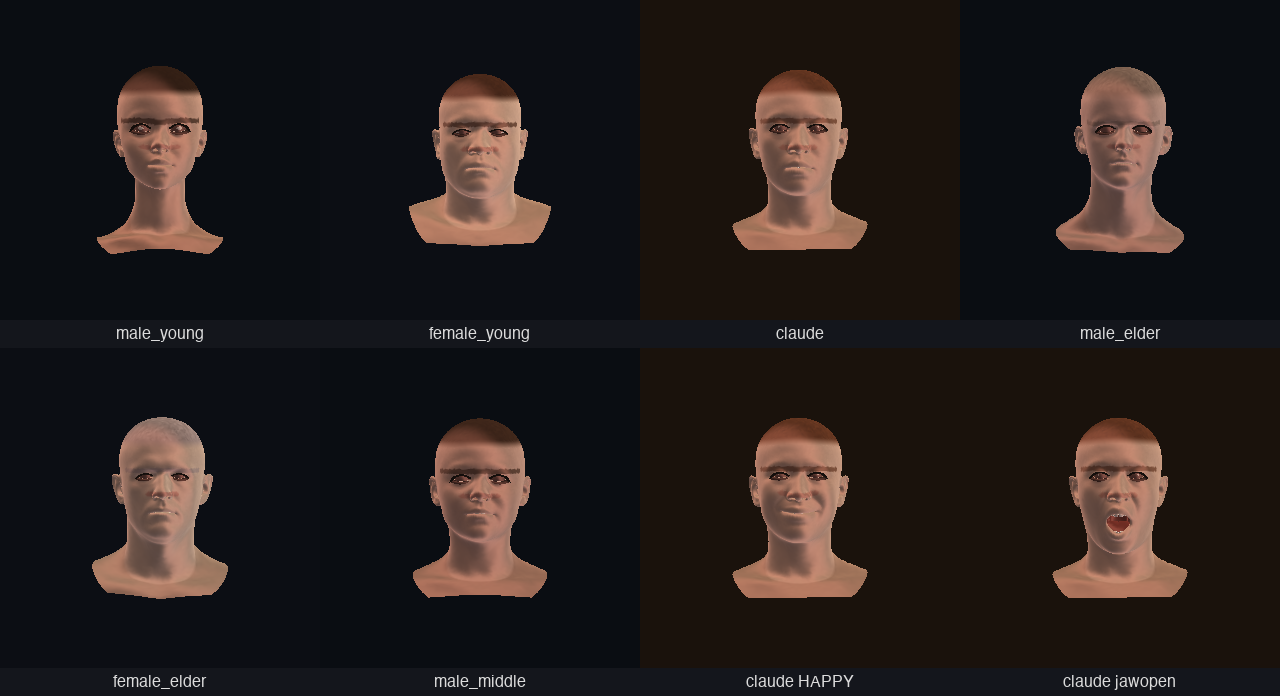
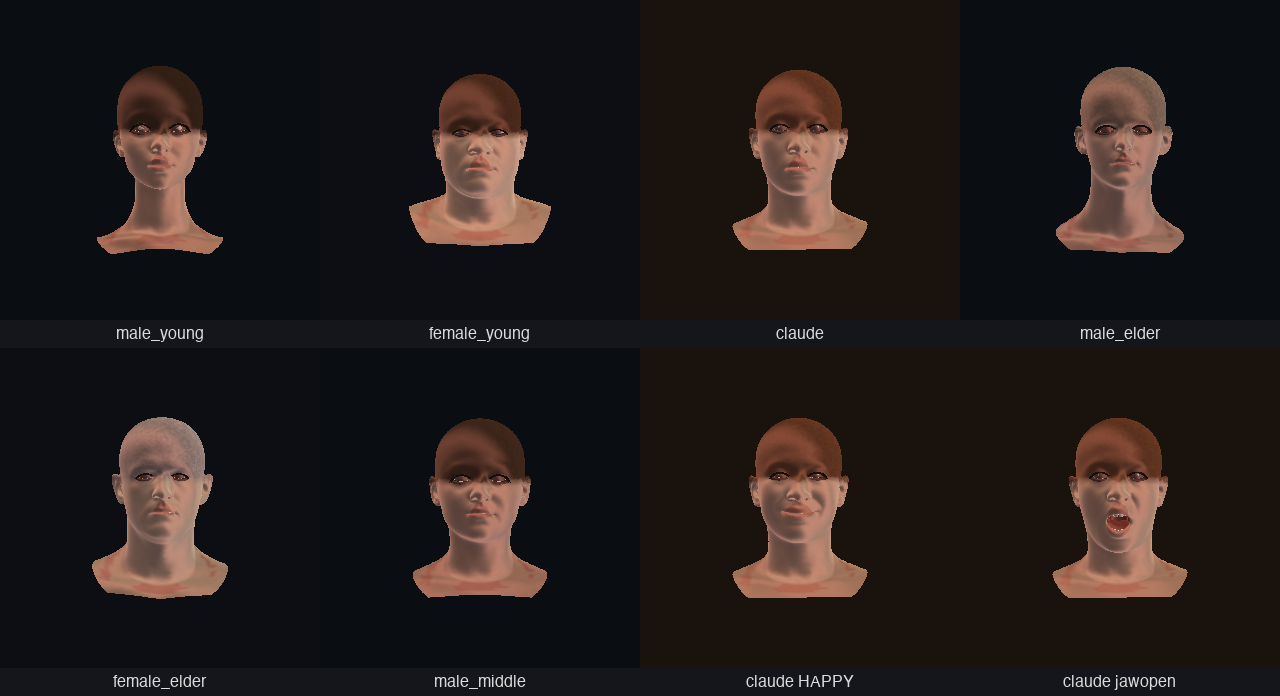
Anatomical region detection via blendshape deltas (winner-take-all)
User flagged that lip / brow / cheek colours were landing in wrong
places. Replaced the Y/X/Z heuristic masks with a clean approach:
**use the blendshape deltas as anatomical region labels**.

INSIGHT
  Each ARKit blendshape is named after the action it drives —
  mouthRollLower, browInnerUp_L, cheekPuff_R. The vertices each
  blendshape MOVES are by definition members of that anatomical
  region. We aggregate per-region max(delta-magnitude), then pick
  each vertex's dominant region (winner-take-all). Vertices below
  threshold stay plain skin.

WHITELIST  vision/ict_face.py _vertex_regions()
  We pick blendshapes whose primary deformation is the named
  region. Broader prefixes catch corner-pull / dimple shapes that
  drag the whole lower face, so we restrict:

    lips    -> mouthRoll/Shrug/Funnel/Pucker/Close
              (vermillion-specific; not Smile/Frown/Dimple)
    brow    -> browDown/InnerUp/OuterUp L+R
    eyelid  -> eyeBlink/Squint/Wide L+R
    cheek   -> cheekPuff/cheekRaiser  (not cheekSquint — eyelid)
    nose    -> noseSneer L+R
    jaw     -> jawOpen

REGION SIZES (out of 26 719 verts)
    lips      1 269   (vermillion border)
    brow      2 497   (brow ridge / hair area)
    eyelid    2 772   (eyelid skin)
    cheek     2 804   (cheek apples)
    nose      1 383
    jaw       8 093
    skin      7 901   (rest of face material)

COLOUR APPLICATION
  Hair (Y heuristic — no hair blendshapes) → top 32% of head.
[…]

diff --git a/src/faceview/vision/ict_face.py b/src/faceview/vision/ict_face.py
@@ -474,14 +474,97 @@ def _render_via_moderngl(
     )
 
 
+@lru_cache(maxsize=1)
+def _vertex_regions() -> dict[str, np.ndarray]:
+    """Derive anatomical region masks from blendshape delta magnitudes.
+
+    Each ARKit blendshape is named after the facial action it
+    drives (``mouthSmile_L``, ``browInnerUp_R``, ``cheekPuff_L``).
+    The vertices it moves are anatomically members of that region.
+
+    But blendshape deformations ripple across the face, so a naive
+    "non-zero" mask gives ~half the mesh. We aggregate by region
+    (sum of delta magnitudes across all blendshapes in that region)
+    then classify each vertex by its dominant region — the one that
+    moves it the most. That gives clean anatomical region masks
+    that match what the artist actually rigged.
+    """
+    m = load_ict_model()
+    n_verts = len(m.vertices)
+
+    # Per-region blendshape WHITELIST. We pick blendshapes whose
+    # primary deformation is the named region — broader prefixes
+    # (e.g. "mouth*") catch corner-pull / dimple shapes that drag
+    # the whole lower face, smearing the lip colour onto the chin.
+    region_blendshapes = {
+        # Vermillion border (the actual lip surface): these shapes
+        # roll, shrug, funnel, pucker, close — all on the lip skin.
+        "lips": [
+            "mouthClose",
+            "mouthRollLower", "mouthRollUpper",
+            "mouthShrugLower", "mouthShrugUpper",
+            "mouthFunnel", "mouthPucker",
+        ],
+        # Brow ridge / hair line.
+        "brow": [
+            "browDown_L", "browDown_R",
+            "browInnerUp_L", "browInnerUp_R",
+            "browOuterUp_L", "browOuterUp_R",
+        ],
+        # Eyelid skin.
+        "eyelid": [
+            "eyeBlink_L", "eyeBlink_R",
+            "eyeSquint_L", "eyeSquint_R",
+            "eyeWide_L", "eyeWide_R",
+        ],
+        # Cheek apples (puff + raiser only — squint pulls eyelid).
+        "cheek": [
+            "cheekPuff_L", "cheekPuff_R",
+            "cheekRaiser_L", "cheekRaiser_R",
+        ],
+        "nose": ["noseSneer_L", "noseSneer_R"],
+        "jaw":  ["jawOpen"],
+    }
+
+    # Max |delta| per region.
+    region_mag: dict[str, np.ndarray] = {}
+    for region, blendshapes in region_blendshapes.items():
+        agg = np.zeros(n_verts, dtype=np.float32)
+        for name in blendshapes:
+            idx = m.name_to_idx.get(name)
+            if idx is None:
+                continue
+            agg = np.maximum(agg, np.linalg.norm(m.deltas[idx], axis=1))
+        region_mag[region] = agg
+
+    # For each vertex, pick the region with the highest magnitude.
+    # Vertices below ALL region thresholds get classified as "skin".
+    region_keys = list(region_mag.keys())
+    stack = np.stack([region_mag[k] for k in region_keys], axis=0)  # (R, N)
+    max_region = np.argmax(stack, axis=0)
+    max_mag = np.max(stack, axis=0)
+
+    # Vertices need a minimum motion magnitude to be considered IN a
+    # region; otherwise they're plain skin.
+    threshold = 0.0015
+    in_any = max_mag > threshold
+
+    out: dict[str, np.ndarray] = {}
+    for i, key in enumerate(region_keys):
+        out[key] = (max_region == i) & in_any
+    out["skin"] = ~in_any
+    return out
+
+
 def _per_vertex_colors_for(params) -> np.ndarray:
     """Return (N, 3) RGB colors keyed off the OBJ's material tags +
-    persona palette + scalp/eyebrow/lip/cheek heuristics.
+    persona palette + blendshape-derived anatomical regions.
 
-    Vectorised — assigns a colour per vertex from a combined palette
-    (skin / hair / eyebrows / lips / cheeks) using anatomical
-    position heuristics on the ICT mesh. Adds slight per-vertex
-    noise so hair and cheeks don't look uniform.
+    Region detection uses ICT blendshape deltas (winner-take-all per
+    vertex) so colours land in anatomically correct places — lips
+    on lip vertices, eyebrows on the brow ridge, cheeks on cheek
+    apples, etc. Hair cap stays on the Y heuristic since ICT has
+    no hair blendshapes.
     """
     palette = _material_palette(params)
     m = load_ict_model()
@@ -518,45 +601,20 @@ def _per_vertex_colors_for(params) -> np.ndarray:
         if 0 <= vm < len(m.materials) else False for vm in vert_mat_safe
     ])
 
-    # ── Anchor regions to eye line ─────────────────────────────
-    # The naive Y-band approach catches back-of-head vertices and
-    # creates visible stripes around the head. Anchor each region
-    # to the eye-mean Y and constrain to FRONT-FACING vertices in
-    # a narrow X band centred on the face midline.
-    eye_mat_names = {"M_EyeBlend", "M_ScleraLeft", "M_ScleraRight",
-                      "M_IrisLeft", "M_IrisRight"}
-    eye_idx = np.array([
-        i for i in range(n_verts)
-        if 0 <= vert_mat_safe[i] < len(m.materials)
-        and m.materials[vert_mat_safe[i]] in eye_mat_names
-    ])
-    eye_y_mean = (float(verts[eye_idx, 1].mean()) if len(eye_idx) > 10
-                   else (y_min + y_max) / 2)
-    eye_x_centre = ((float(verts[eye_idx, 0].mean()) if len(eye_idx) > 10
-                     else (x_min + x_max) / 2))
-    eye_z_mean = (float(verts[eye_idx, 2].mean()) if len(eye_idx) > 10
-                   else z_max)
-    face_half_w = (x_max - x_min) * 0.30   # inside face only
-
-    # Front-facing gate: vertex Z must be near or in front of the
-    # eyes (excludes ears, sides, back of head, neck-back).
-    z_face_thresh = eye_z_mean - y_span * 0.10
-    front_strict = verts[:, 2] > z_face_thresh
-    on_face_front = on_face & front_strict & (
-        np.abs(verts[:, 0] - eye_x_centre) < face_half_w
+    hair_color = np.array(palette["M_HairCap"], dtype=np.float32)
+    lip_color = np.array(
+        _hex_to_rgb_f(getattr(params, "lip_color", "#a44a4a")),
+        dtype=np.float32,
     )
 
-    hair_color = np.array(palette["M_HairCap"], dtype=np.float32)
-
-    # ── Hair cap: top of head, all sides (need Y gate, not X gate) ──
-    # Hair covers the cranium dome — leave the X gate off but keep
-    # the Y-band fade so the forehead transition is smooth.
-    hair_y = eye_y_mean + y_span * 0.20
-    hair_fade_y = hair_y - y_span * 0.04
+    # ── Hair cap (Y heuristic — no hair blendshapes in ICT) ──
+    # Top of head, fading at the forehead.
+    hair_y = y_max - y_span * 0.32
+    hair_fade_y = hair_y - y_span * 0.05
     hair_mask = on_face & (verts[:, 1] > hair_y)
     fade_mask = (on_face & (verts[:, 1] > hair_fade_y)
                  & (verts[:, 1] <= hair_y))
-    hair_noise = 1.0 + (rng.standard_normal(n_verts).astype(np.float32) * 0.06)
+    hair_noise = 1.0 + rng.standard_normal(n_verts).astype(np.float32) * 0.06
     hair_noise = np.clip(hair_noise, 0.85, 1.15)
     colors[hair_mask] = hair_color * hair_noise[hair_mask, None]
     if fade_mask.any():
@@ -564,48 +622,33 @@ def _per_vertex_colors_for(params) -> np.ndarray:
               / max(1e-6, hair_y - hair_fade_y))[:, None]
         colors[fade_mask] = colors[fade_mask] * (1 - t) + hair_color * t
 
-    # ── Eyebrows: thin front-only band just above eye mean ──
-    brow_y_lo = eye_y_mean + y_span * 0.020
-    brow_y_hi = eye_y_mean + y_span * 0.045
-    brow_mask = (on_face_front
-                 & (verts[:, 1] > brow_y_lo)
-                 & (verts[:, 1] < brow_y_hi))
+    # ── Anatomical regions from blendshape deltas ──
+    regions = _vertex_regions()
+
+    # Brows — coloured with hair_color, blended so it reads as hair
+    # over skin (the brow region from blendshapes IS the eyebrow
+    # ridge / brow hair area). Don't apply where hair cap already painted.
+    brow_mask = regions["brow"] & on_face & ~hair_mask
     if brow_mask.any():
-        # Soften: blend hair_color 70% with current colour for the
-        # brow band so it reads as eyebrow hair against skin.
+        brow_noise = 1.0 + rng.standard_normal(n_verts).astype(np.float32) * 0.05
+        brow_noise = np.clip(brow_noise, 0.88, 1.12)
         colors[brow_mask] = (colors[brow_mask] * 0.30
-                              + hair_color * 0.70)
+                              + hair_color * 0.70 * brow_noise[brow_mask, None])
 
-    # ── Lips: very tight band, front-only, narrow X ──
-    lip_color = np.array(
-        _hex_to_rgb_f(getattr(params, "lip_color", "#a44a4a")),
-        dtype=np.float32,
-    )
-    lip_y_centre = eye_y_mean - y_span * 0.105
-    lip_y_lo = lip_y_centre - y_span * 0.012
-    lip_y_hi = lip_y_centre + y_span * 0.012
-    lip_x_half = (x_max - x_min) * 0.13
-    lip_mask = (on_face_front
-                & (verts[:, 1] > lip_y_lo)
-                & (verts[:, 1] < lip_y_hi)
-                & (np.abs(verts[:, 0] - eye_x_centre) < lip_x_half))
-    if lip_mask.any():
-        # 50/50 blend so lips read as redder skin, not paint stripe.
-        colors[lip_mask] = colors[lip_mask] * 0.50 + lip_color * 0.50
+    # Lips — winner-take-all from "mouth*" blendshapes. Filter out
+    # vertices that are visibly NOT face material (teeth, gums, tongue).
+    lips_mask = (regions["lips"] & on_face & ~hair_mask)
+    if lips_mask.any():
+        # Lips read as redder skin — 60/40 blend.
+        colors[lips_mask] = colors[lips_mask] * 0.40 + lip_color * 0.60
 
-    # ── Cheek blush: small radial spots, very subtle ──
-    cheek_y = eye_y_mean - y_span * 0.045
-    for sign in (-1, 1):
-        cx = eye_x_centre + sign * (x_max - x_min) * 0.18
-        cheek_mask = (on_face_front
-                      & (verts[:, 1] > cheek_y - y_span * 0.020)
-                      & (verts[:, 1] < cheek_y + y_span * 0.020)
-                      & (np.abs(verts[:, 0] - cx) < (x_max - x_min) * 0.05))
-        if cheek_mask.any():
-            blush = np.array([0.95, 0.62, 0.55], dtype=np.float32)
-            colors[cheek_mask] = colors[cheek_mask] * 0.92 + blush * 0.08
+    # Cheek blush — subtle pink at cheek apple area.
+    cheek_mask = regions["cheek"] & on_face & ~hair_mask & ~lips_mask & ~brow_mask
+    if cheek_mask.any():
+        blush = np.array([0.95, 0.62, 0.55], dtype=np.float32)
+        colors[cheek_mask] = colors[cheek_mask] * 0.90 + blush * 0.10
 
-    # ── Subtle global skin noise (very small) ──
+    # ── Subtle global skin noise ──
     if on_face.any():
         skin_noise = 1.0 + rng.standard_normal(n_verts).astype(np.float32) * 0.012
         skin_noise = np.clip(skin_noise, 0.97, 1.03)

diff --git a/docs/FACE_RESEARCH.md b/docs/FACE_RESEARCH.md
@@ -109,6 +109,69 @@ for face reconstruction; overkill for our renderer.
 These are the next realism tier above what we ship today; all
 require shader work on top of ICT's geometry.
 
+## Region detection — using blendshape deltas as anatomical labels
+
+Late note (session 19): the cleanest way to identify which mesh
+vertices are lips, brows, cheeks, eyelids on the ICT mesh is to
+**read it off the blendshapes themselves**. Each ARKit blendshape
+is named after the facial action it drives — `mouthRollLower`,
+`browInnerUp_L`, `cheekPuff_R`. The vertices each blendshape moves
+ARE that anatomical region.
+
+For each region we whitelist a few vermillion / brow-ridge / apple
+specific shapes (broader prefixes catch corner-pull / dimple
+shapes that drag the whole lower face). Then per vertex,
+**winner-take-all**: pick the region with the highest blendshape
+delta magnitude. Vertices below all thresholds are plain skin.
+
+```python
+region_blendshapes = {
+    "lips": ["mouthClose", "mouthRollLower", "mouthRollUpper",
+             "mouthShrugLower", "mouthShrugUpper",
+             "mouthFunnel", "mouthPucker"],
+    "brow": ["browDown_L", "browDown_R", "browInnerUp_L",
+             "browInnerUp_R", "browOuterUp_L", "browOuterUp_R"],
+    ...
+}
+```
+
+Result: lips region has ~1300 vertices on the actual vermillion
+border. Brow has ~2500 on the brow ridge area. Cheek has ~2800
+on the cheek apple. No more horizontal Y-stripes catching the
+back of the head.
+
+## Faceforge anatomy + ICT animation — can we combine?
+
+Faceforge ships static BodyParts3D STL meshes (skull, expression
+muscles, etc.) — anatomically accurate but rigid. ICT ships
+26 K vertices + 53 ARKit blendshapes — animatable but a single
+generic head topology.
+
+**Direct mesh combination is impractical** because the topologies
+don't match — BP3D is a triangle soup of medical scans; ICT is a
+single artist-rigged mesh. There's no vertex correspondence.
+
+**What we already do (and recommend keeping)**:
+
+- `faceforge_3d_gpu` mode renders the BP3D head as a static
+  high-fidelity reference.
+- `anatomy_layers` / `anatomy_skull` / `anatomy_brain` etc. modes
+  render BP3D skull / muscles / brain stylised — useful for
+  educational/diagnostic views.
+- ICT face is the recommended primary renderer for animation.
+
+**Potentially useful integration paths** (none implemented yet):
+
+1. **Anatomy underlay** — render the ICT face translucent on top
+   of the BP3D skull, so you see "muscles deforming under skin".
+   Roadmap A47.
+2. **Face-fitting** — use BP3D skull landmark positions to refine
+   ICT identity_weights so the animated face matches a specific
+   anatomical reference. Roadmap A48.
+3. **Per-vertex skinning correspondence** — find the closest BP3D
+   bone for each ICT vertex, then drive ICT vertices via BP3D bone
+   movement. Heavy ML pipeline; not justified by realism gain.
+
 ## Recommendation
 
 **Today's commit makes ICT-FaceKit the project's highest-realism